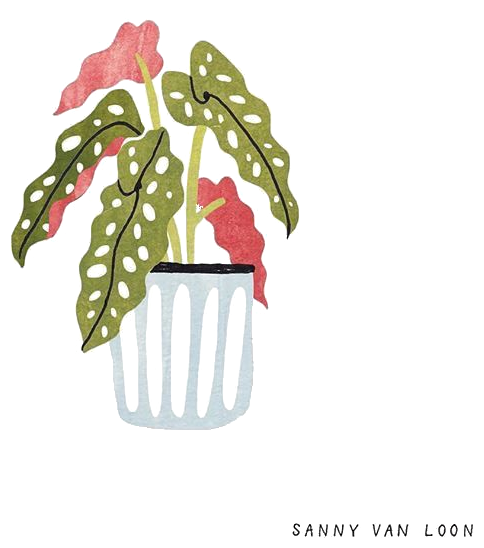
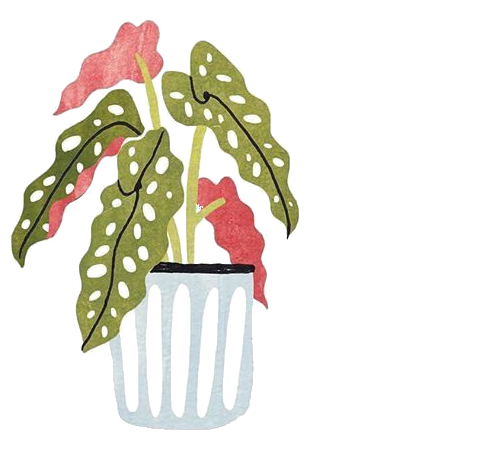
Enlarge and add parallax to bio page props
Increase prop size and spacing around the polaroid, crop out the
"Sanny Van Loon" watermark baked into the record player and plant
illustrations, and give the props the same cursor-driven parallax
drift already used on the hero section.

diff --git a/src/lib/SitePage.svelte b/src/lib/SitePage.svelte
@@ -20,38 +20,51 @@
     primaryNav?.querySelectorAll('a').forEach((link) => link.addEventListener('click', closeNav));
 
     const reducedMotion = window.matchMedia('(prefers-reduced-motion: reduce)');
-    const hero = document.querySelector('.hero');
-    const parallaxItems = document.querySelectorAll('.hero-tags .tag, .hero-prop, .hero-badges');
     const wideScreen = window.matchMedia('(min-width: 861px)');
-    let lastEvent;
-    let ticking = false;
-    const applyParallax = () => {
-      ticking = false;
-      if (!lastEvent || !wideScreen.matches || !hero) return;
-      const bounds = hero.getBoundingClientRect();
-      const x = ((lastEvent.clientX - bounds.left) / bounds.width) * 2 - 1;
-      const y = ((lastEvent.clientY - bounds.top) / bounds.height) * 2 - 1;
-      parallaxItems.forEach((element) => {
-        const depth = Number.parseFloat(element.dataset.depth) || 1;
-        element.style.setProperty('--tx', `${x * 16 * depth}px`);
-        element.style.setProperty('--ty', `${y * 16 * depth}px`);
+
+    const setupParallax = (container, items) => {
+      if (!container || !items.length || reducedMotion.matches) return () => {};
+      let lastEvent;
+      let ticking = false;
+      const applyParallax = () => {
+        ticking = false;
+        if (!lastEvent || !wideScreen.matches) return;
+        const bounds = container.getBoundingClientRect();
+        const x = ((lastEvent.clientX - bounds.left) / bounds.width) * 2 - 1;
+        const y = ((lastEvent.clientY - bounds.top) / bounds.height) * 2 - 1;
+        items.forEach((element) => {
+          const depth = Number.parseFloat(element.dataset.depth) || 1;
+          element.style.setProperty('--tx', `${x * 16 * depth}px`);
+          element.style.setProperty('--ty', `${y * 16 * depth}px`);
+        });
+      };
+      const resetParallax = () => items.forEach((element) => {
+        element.style.setProperty('--tx', '0px');
+        element.style.setProperty('--ty', '0px');
       });
+      const trackPointer = (event) => {
+        lastEvent = event;
+        if (!ticking) {
+          ticking = true;
+          requestAnimationFrame(applyParallax);
+        }
+      };
+      container.addEventListener('mousemove', trackPointer);
+      container.addEventListener('mouseleave', resetParallax);
+      return () => {
+        container.removeEventListener('mousemove', trackPointer);
+        container.removeEventListener('mouseleave', resetParallax);
+      };
     };
-    const resetParallax = () => parallaxItems.forEach((element) => {
-      element.style.setProperty('--tx', '0px');
-      element.style.setProperty('--ty', '0px');
-    });
-    const trackPointer = (event) => {
-      lastEvent = event;
-      if (!ticking) {
-        ticking = true;
-        requestAnimationFrame(applyParallax);
-      }
-    };
-    if (hero && parallaxItems.length && !reducedMotion.matches) {
-      hero.addEventListener('mousemove', trackPointer);
-      hero.addEventListener('mouseleave', resetParallax);
-    }
+
+    const teardownHeroParallax = setupParallax(
+      document.querySelector('.hero'),
+      document.querySelectorAll('.hero-tags .tag, .hero-prop, .hero-badges')
+    );
+    const teardownBioParallax = setupParallax(
+      document.querySelector('.bio'),
+      document.querySelectorAll('.bio-prop')
+    );
 
     const cards = document.querySelectorAll('.projects:not(.work-archive) .project-list .project-card');
     let observer;
@@ -84,8 +97,8 @@
 
     return () => {
       navToggle?.removeEventListener('click', toggleNav);
-      hero?.removeEventListener('mousemove', trackPointer);
-      hero?.removeEventListener('mouseleave', resetParallax);
+      teardownHeroParallax();
+      teardownBioParallax();
       observer?.disconnect();
       businessCards.forEach((card) => {
         card.removeEventListener('click', flipCard);

diff --git a/js/main.js b/js/main.js
@@ -16,19 +16,17 @@ if (navToggle && primaryNav) {
   });
 }
 
-// Hero parallax — the glass tags, vinyl, palette, camera, and designer
-// badges each drift toward the cursor at their own depth, so the whole
-// cluster reads as layered rather than flat.
-const hero = document.querySelector(".hero");
-const parallaxEls = document.querySelectorAll(
-  ".hero-tags .tag, .hero-prop, .hero-badges"
-);
+// Parallax — hero tags/props/badges and the bio-page polaroid props each
+// drift toward the cursor at their own depth, so each cluster reads as
+// layered rather than flat.
 const prefersReducedMotion = window.matchMedia("(prefers-reduced-motion: reduce)");
 const isWideEnough = window.matchMedia("(min-width: 861px)"); // matches the CSS breakpoint that drops absolute positioning
 
-const MAX_OFFSET = 16; // px of travel at the very edge of the hero
+const MAX_OFFSET = 16; // px of travel at the very edge of the container
 
-if (hero && parallaxEls.length && !prefersReducedMotion.matches) {
+function setupParallax(container, els) {
+  if (!container || !els.length || prefersReducedMotion.matches) return;
+
   let ticking = false;
   let lastEvent = null;
 
@@ -36,19 +34,19 @@ if (hero && parallaxEls.length && !prefersReducedMotion.matches) {
     ticking = false;
     if (!lastEvent || !isWideEnough.matches) return;
 
-    const rect = hero.getBoundingClientRect();
-    // -1 (left/top edge) to 1 (right/bottom edge), 0 at hero's center
+    const rect = container.getBoundingClientRect();
+    // -1 (left/top edge) to 1 (right/bottom edge), 0 at container's center
     const nx = ((lastEvent.clientX - rect.left) / rect.width) * 2 - 1;
     const ny = ((lastEvent.clientY - rect.top) / rect.height) * 2 - 1;
 
-    parallaxEls.forEach((el) => {
+    els.forEach((el) => {
       const depth = parseFloat(el.dataset.depth) || 1;
       el.style.setProperty("--tx", `${nx * MAX_OFFSET * depth}px`);
       el.style.setProperty("--ty", `${ny * MAX_OFFSET * depth}px`);
     });
   };
 
-  hero.addEventListener("mousemove", (event) => {
+  container.addEventListener("mousemove", (event) => {
     lastEvent = event;
     if (!ticking) {
       ticking = true;
@@ -56,13 +54,22 @@ if (hero && parallaxEls.length && !prefersReducedMotion.matches) {
     }
   });
 
-  hero.addEventListener("mouseleave", () => {
-    parallaxEls.forEach((el) => {
+  container.addEventListener("mouseleave", () => {
+    els.forEach((el) => {
       el.style.setProperty("--tx", "0px");
       el.style.setProperty("--ty", "0px");
     });
   });
 }
+
+setupParallax(
+  document.querySelector(".hero"),
+  document.querySelectorAll(".hero-tags .tag, .hero-prop, .hero-badges")
+);
+setupParallax(
+  document.querySelector(".bio"),
+  document.querySelectorAll(".bio-prop")
+);
 
 // Project card scroll-reveal — cards sit blurred until they scroll into
 // view, then sharpen into place. The .scroll-blur class only gets added

diff --git a/css/style.css b/css/style.css
@@ -304,7 +304,7 @@ h1, h2, h3 { margin: 0; }
 .tag--artist      { top: 168px; left: 58%; --rot: 3deg; }
 
 @media (prefers-reduced-motion: reduce) {
-  .tag, .hero-prop, .hero-badges { transition: none; }
+  .tag, .hero-prop, .hero-badges, .bio-prop { transition: none; }
 }
 
 .hero-heading {
@@ -769,7 +769,7 @@ h1, h2, h3 { margin: 0; }
   width: 100%;
   display: flex;
   align-items: center;
-  gap: 60px;
+  gap: 120px;
 }
 
 /* the bio copy lives on a fanned stack of torn spiral-notebook pages —
@@ -864,6 +864,7 @@ h1, h2, h3 { margin: 0; }
 
 .bio-drawing-wrap {
   position: relative;
+  z-index: 5;
   flex: 1 1 260px;
   max-width: 300px;
   margin: 0 auto;
@@ -878,11 +879,17 @@ h1, h2, h3 { margin: 0; }
   height: auto;
   filter: drop-shadow(0 8px 14px rgba(20, 20, 20, 0.18));
   pointer-events: none;
+  --tx: 0px;
+  --ty: 0px;
+  translate: var(--tx) var(--ty);
+  rotate: var(--rot, 0deg);
+  transition: translate 0.25s cubic-bezier(0.22, 1, 0.36, 1);
+  will-change: translate;
 }
-.bio-prop--record-player { left: -18%; top: -12%; width: 42%; rotate: -13deg; }
-.bio-prop--plant { right: -16%; top: -6%; width: 30%; rotate: 10deg; }
-.bio-prop--palette { left: -14%; bottom: 4%; width: 26%; rotate: 15deg; }
-.bio-prop--camera { right: -18%; bottom: -8%; width: 36%; rotate: -9deg; }
+.bio-prop--record-player { left: -42%; top: -32%; width: 50%; --rot: -13deg; }
+.bio-prop--plant { right: -38%; top: -26%; width: 34%; --rot: 10deg; }
+.bio-prop--palette { left: -36%; bottom: 16%; width: 29%; --rot: 15deg; }
+.bio-prop--camera { right: -42%; bottom: -30%; width: 40%; --rot: -9deg; }
 /* the "Hello!" caption is baked into the illustration, on the polaroid's
    black bottom border — cover it with a matching black strip and fade
    that cover out on hover to "reveal" the greeting */
@@ -909,12 +916,12 @@ h1, h2, h3 { margin: 0; }
 
 @media (max-width: 860px) {
   .bio { padding-top: 110px; text-align: left; }
-  .bio-columns { flex-direction: column-reverse; gap: 30px; }
-  .bio-drawing-wrap { max-width: 260px; }
-  .bio-prop--record-player { left: -10%; top: -8%; }
-  .bio-prop--plant { right: -8%; top: -4%; }
-  .bio-prop--palette { left: -6%; bottom: 6%; }
-  .bio-prop--camera { right: -10%; bottom: -4%; }
+  .bio-columns { flex-direction: column-reverse; gap: 76px; }
+  .bio-drawing-wrap { max-width: 250px; }
+  .bio-prop--record-player { left: -28%; top: -22%; width: 42%; }
+  .bio-prop--plant { right: -24%; top: -16%; width: 28%; }
+  .bio-prop--palette { left: -22%; bottom: 12%; width: 24%; }
+  .bio-prop--camera { right: -28%; bottom: -18%; width: 33%; }
   .bio-note-stack { max-width: 92vw; margin: 0 auto; }
   .bio-note-sheet--front { rotate: -0.6deg; padding: 44px 26px 32px; }
   .bio-note-sheet--back { translate: -8px -6px; }

diff --git a/static/css/style.css b/static/css/style.css
@@ -304,7 +304,7 @@ h1, h2, h3 { margin: 0; }
 .tag--artist      { top: 168px; left: 58%; --rot: 3deg; }
 
 @media (prefers-reduced-motion: reduce) {
-  .tag, .hero-prop, .hero-badges { transition: none; }
+  .tag, .hero-prop, .hero-badges, .bio-prop { transition: none; }
 }
 
 .hero-heading {
@@ -769,7 +769,7 @@ h1, h2, h3 { margin: 0; }
   width: 100%;
   display: flex;
   align-items: center;
-  gap: 60px;
+  gap: 120px;
 }
 
 /* the bio copy lives on a fanned stack of torn spiral-notebook pages —
@@ -864,6 +864,7 @@ h1, h2, h3 { margin: 0; }
 
 .bio-drawing-wrap {
   position: relative;
+  z-index: 5;
   flex: 1 1 260px;
   max-width: 300px;
   margin: 0 auto;
@@ -878,11 +879,17 @@ h1, h2, h3 { margin: 0; }
   height: auto;
   filter: drop-shadow(0 8px 14px rgba(20, 20, 20, 0.18));
   pointer-events: none;
+  --tx: 0px;
+  --ty: 0px;
+  translate: var(--tx) var(--ty);
+  rotate: var(--rot, 0deg);
+  transition: translate 0.25s cubic-bezier(0.22, 1, 0.36, 1);
+  will-change: translate;
 }
-.bio-prop--record-player { left: -18%; top: -12%; width: 42%; rotate: -13deg; }
-.bio-prop--plant { right: -16%; top: -6%; width: 30%; rotate: 10deg; }
-.bio-prop--palette { left: -14%; bottom: 4%; width: 26%; rotate: 15deg; }
-.bio-prop--camera { right: -18%; bottom: -8%; width: 36%; rotate: -9deg; }
+.bio-prop--record-player { left: -42%; top: -32%; width: 50%; --rot: -13deg; }
+.bio-prop--plant { right: -38%; top: -26%; width: 34%; --rot: 10deg; }
+.bio-prop--palette { left: -36%; bottom: 16%; width: 29%; --rot: 15deg; }
+.bio-prop--camera { right: -42%; bottom: -30%; width: 40%; --rot: -9deg; }
 /* the "Hello!" caption is baked into the illustration, on the polaroid's
    black bottom border — cover it with a matching black strip and fade
    that cover out on hover to "reveal" the greeting */
@@ -909,12 +916,12 @@ h1, h2, h3 { margin: 0; }
 
 @media (max-width: 860px) {
   .bio { padding-top: 110px; text-align: left; }
-  .bio-columns { flex-direction: column-reverse; gap: 30px; }
-  .bio-drawing-wrap { max-width: 260px; }
-  .bio-prop--record-player { left: -10%; top: -8%; }
-  .bio-prop--plant { right: -8%; top: -4%; }
-  .bio-prop--palette { left: -6%; bottom: 6%; }
-  .bio-prop--camera { right: -10%; bottom: -4%; }
+  .bio-columns { flex-direction: column-reverse; gap: 76px; }
+  .bio-drawing-wrap { max-width: 250px; }
+  .bio-prop--record-player { left: -28%; top: -22%; width: 42%; }
+  .bio-prop--plant { right: -24%; top: -16%; width: 28%; }
+  .bio-prop--palette { left: -22%; bottom: 12%; width: 24%; }
+  .bio-prop--camera { right: -28%; bottom: -18%; width: 33%; }
   .bio-note-stack { max-width: 92vw; margin: 0 auto; }
   .bio-note-sheet--front { rotate: -0.6deg; padding: 44px 26px 32px; }
   .bio-note-sheet--back { translate: -8px -6px; }

diff --git a/bio.html b/bio.html
@@ -85,10 +85,10 @@
           <img src="assets/images/bio-portrait.png" alt="Hand-drawn illustration of a polaroid photo of Claudia wearing sunglasses, with a caption reading &quot;Hello!&quot;" />
           <span class="bio-drawing-cover" aria-hidden="true"></span>
         </div>
-        <img class="bio-prop bio-prop--record-player" src="assets/images/bio-props/record-player.png" alt="Illustration of a green suitcase record player" />
-        <img class="bio-prop bio-prop--plant" src="assets/images/bio-props/plant.png" alt="Illustration of a potted polka-dot begonia" />
-        <img class="bio-prop bio-prop--palette" src="assets/images/bio-props/palette.png" alt="Illustration of a watercolor paint palette" />
-        <img class="bio-prop bio-prop--camera" src="assets/images/bio-props/camera.png" alt="Illustration of a disposable film camera" />
+        <img class="bio-prop bio-prop--record-player" data-depth="1.3" src="assets/images/bio-props/record-player.png" alt="Illustration of a green suitcase record player" />
+        <img class="bio-prop bio-prop--plant" data-depth="0.8" src="assets/images/bio-props/plant.png" alt="Illustration of a potted polka-dot begonia" />
+        <img class="bio-prop bio-prop--palette" data-depth="1.1" src="assets/images/bio-props/palette.png" alt="Illustration of a watercolor paint palette" />
+        <img class="bio-prop bio-prop--camera" data-depth="0.6" src="assets/images/bio-props/camera.png" alt="Illustration of a disposable film camera" />
       </div>
 
     </div>
